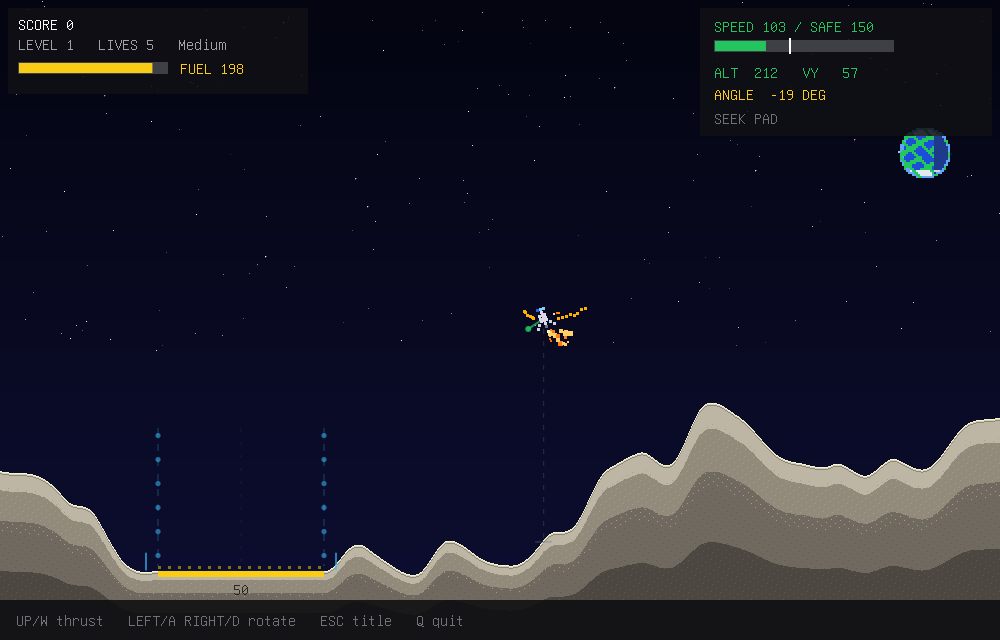
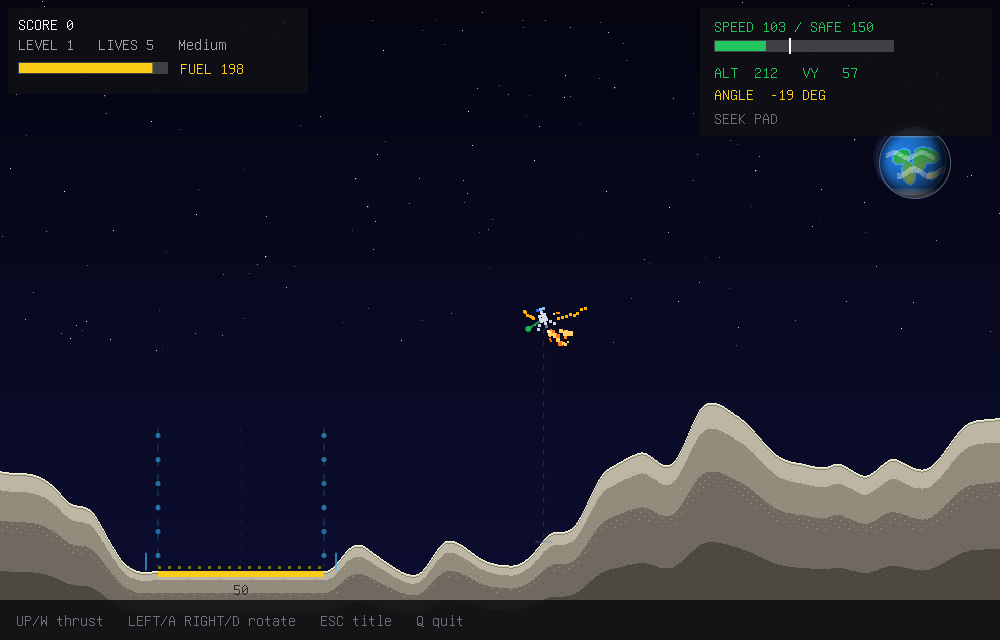
Improve background Earth rendering

Changed region(s): [[0.868, 0.1875, 0.961, 0.3125]]

diff --git a/src/render.c b/src/render.c
@@ -256,33 +256,106 @@ static void draw_stars(void)
     }
 }
 
+static uint32_t mix_rgb(uint32_t a, uint32_t b, float t)
+{
+    t = clampf(t, 0, 1);
+    int ar = (a >> 16) & 255, ag = (a >> 8) & 255, ab = a & 255;
+    int br = (b >> 16) & 255, bg = (b >> 8) & 255, bb = b & 255;
+    int r = ar + (int)((br - ar) * t);
+    int g = ag + (int)((bg - ag) * t);
+    int bl = ab + (int)((bb - ab) * t);
+    return ((uint32_t)r << 16) | ((uint32_t)g << 8) | (uint32_t)bl;
+}
+
+static uint32_t scale_rgb(uint32_t rgb, float k)
+{
+    k = clampf(k, 0, 2);
+    int r = (int)(((rgb >> 16) & 255) * k);
+    int g = (int)(((rgb >> 8) & 255) * k);
+    int b = (int)((rgb & 255) * k);
+    if (r > 255) r = 255;
+    if (g > 255) g = 255;
+    if (b > 255) b = 255;
+    return ((uint32_t)r << 16) | ((uint32_t)g << 8) | (uint32_t)b;
+}
+
+static bool ellipse_mask(float x, float y, float cx, float cy,
+                         float rx, float ry, float rot)
+{
+    float s = sinf(rot), c = cosf(rot);
+    float px = x - cx, py = y - cy;
+    float qx = px * c + py * s;
+    float qy = -px * s + py * c;
+    return (qx * qx) / (rx * rx) + (qy * qy) / (ry * ry) < 1.0f;
+}
+
 static void draw_earth(void)
 {
-    int block = (int)clampf(H / 280.0f, 2.0f, 4.0f);
-    int r = (int)clampf(H * 0.040f, 13.0f, 34.0f);
+    int block = (int)clampf(H / 360.0f, 1.0f, 2.0f);
+    int r = (int)clampf(H * 0.055f, 24.0f, 44.0f);
     bool hud = G.state == GS_PLAYING || G.state == GS_CRASHING ||
                G.state == GS_LEVEL_COMPLETE || G.state == GS_GAMEOVER;
-    int cx = W - r * 3;
-    int cy = hud ? (int)(H * 0.24f) : r * 2;
+    int cx = W - (int)(r * 2.45f);
+    int cy = hud ? (int)(H * 0.255f) : (int)(r * 2.15f);
+
+    fill_circle(cx - r * 0.10f, cy - r * 0.08f, r + block * 2.2f, 0x2563eb, 0.08f);
+    fill_circle(cx - r * 0.18f, cy - r * 0.16f, r + block * 0.9f, 0x93c5fd, 0.05f);
+
     for (int y = cy - r - block; y <= cy + r + block; y += block) {
         for (int x = cx - r - block; x <= cx + r + block; x += block) {
             float dx = x + block * 0.5f - cx;
             float dy = y + block * 0.5f - cy;
-            float d = sqrtf(dx * dx + dy * dy);
-            if (d > r + block * 0.4f) continue;
-            uint32_t col = 0x1d4ed8;
-            if (d > r * 0.88f) col = 0x60a5fa;
-            if (fabsf(dy) > r * 0.68f && d < r * 0.92f) col = 0xe2e8f0;
-            int land = ((int)(dx * 0.55f + dy * 0.90f + 300) % 13);
-            if ((land >= 0 && land < 5 && d > r * 0.18f && fabsf(dy) < r * 0.72f) ||
-                ((int)(dx - dy + 200) % 17) < 4)
-                col = 0x22c55e;
-            if (dx > r * 0.35f && d < r * 0.92f) col = (col == 0xe2e8f0) ? 0xcbd5e1 : 0x1e3a8a;
+            float u = dx / r, v = dy / r;
+            float d2 = u * u + v * v;
+            if (d2 > 1.0f) continue;
+
+            float z = sqrtf(1.0f - d2);
+            float light = clampf(-u * 0.42f - v * 0.30f + z * 0.82f, 0, 1);
+            float limb = clampf((1.0f - sqrtf(d2)) * 4.0f, 0, 1);
+            uint32_t col = mix_rgb(0x0b1f5d, 0x1d70d6, 0.45f + 0.45f * light);
+            col = mix_rgb(col, 0x38bdf8, 0.16f * limb);
+
+            bool land =
+                ellipse_mask(u, v, -0.38f, -0.18f, 0.25f, 0.18f, -0.55f) ||
+                ellipse_mask(u, v, -0.18f,  0.28f, 0.16f, 0.33f, -0.18f) ||
+                ellipse_mask(u, v,  0.13f, -0.07f, 0.18f, 0.30f,  0.08f) ||
+                ellipse_mask(u, v,  0.34f, -0.22f, 0.34f, 0.19f,  0.28f) ||
+                ellipse_mask(u, v,  0.50f,  0.35f, 0.16f, 0.09f, -0.20f);
+            bool coast =
+                ellipse_mask(u, v, -0.38f, -0.18f, 0.30f, 0.22f, -0.55f) ||
+                ellipse_mask(u, v, -0.18f,  0.28f, 0.20f, 0.38f, -0.18f) ||
+                ellipse_mask(u, v,  0.13f, -0.07f, 0.22f, 0.35f,  0.08f) ||
+                ellipse_mask(u, v,  0.34f, -0.22f, 0.39f, 0.24f,  0.28f) ||
+                ellipse_mask(u, v,  0.50f,  0.35f, 0.20f, 0.13f, -0.20f);
+
+            if (coast && !land)
+                col = mix_rgb(col, 0x7dd3fc, 0.45f);
+            if (land) {
+                float dry = clampf(v * 0.8f + u * 0.25f + 0.35f, 0, 1);
+                col = mix_rgb(0x16a34a, 0xb6a35a, dry);
+            }
+            if (fabsf(v) > 0.72f)
+                col = mix_rgb(col, 0xf8fafc, clampf((fabsf(v) - 0.68f) * 3.5f, 0, 0.78f));
+
+            float cloud1 = 1.0f - fabsf(v + 0.22f + 0.08f * sinf(u * 8.0f));
+            float cloud2 = 1.0f - fabsf(v - 0.28f + 0.10f * sinf(u * 7.0f + 1.8f));
+            float clouds = 0.0f;
+            if (cloud1 > 0.93f && u > -0.82f && u < 0.58f) clouds = 0.38f;
+            if (cloud2 > 0.91f && u > -0.52f && u < 0.86f) clouds = fmaxf(clouds, 0.45f);
+            if ((((int)((u + 1.2f) * 31.0f) + (int)((v + 1.0f) * 37.0f)) & 7) == 0)
+                clouds *= 0.45f;
+            col = mix_rgb(col, 0xf8fafc, clouds);
+
+            float shade = 0.34f + 0.74f * light;
+            shade *= 0.78f + 0.22f * limb;
+            if (u > 0.46f) shade *= 1.0f - clampf((u - 0.46f) * 1.25f, 0, 0.45f);
+            col = scale_rgb(col, shade);
+
             pixel_rect(x, y, block, block, col);
         }
     }
-    pixel_rect(cx - r - block, cy - block, block, block, 0x93c5fd);
-    pixel_rect(cx + r, cy, block, block, 0x0f172a);
+    ring(cx, cy, r + 0.5f, fmaxf(1.0f, block * 0.9f), 0xbfdbfe, 0.42f);
+    ring(cx - r * 0.10f, cy - r * 0.08f, r - block * 0.5f, 1.0f, 0xeff6ff, 0.10f);
 }
 
 static void draw_terrain(void)